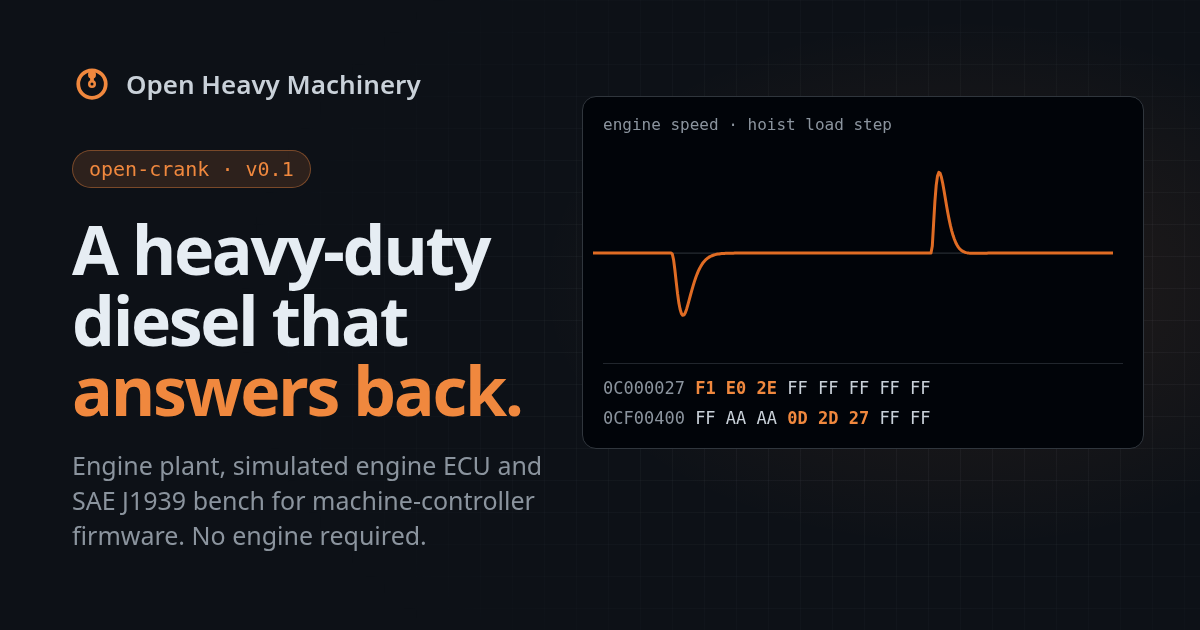
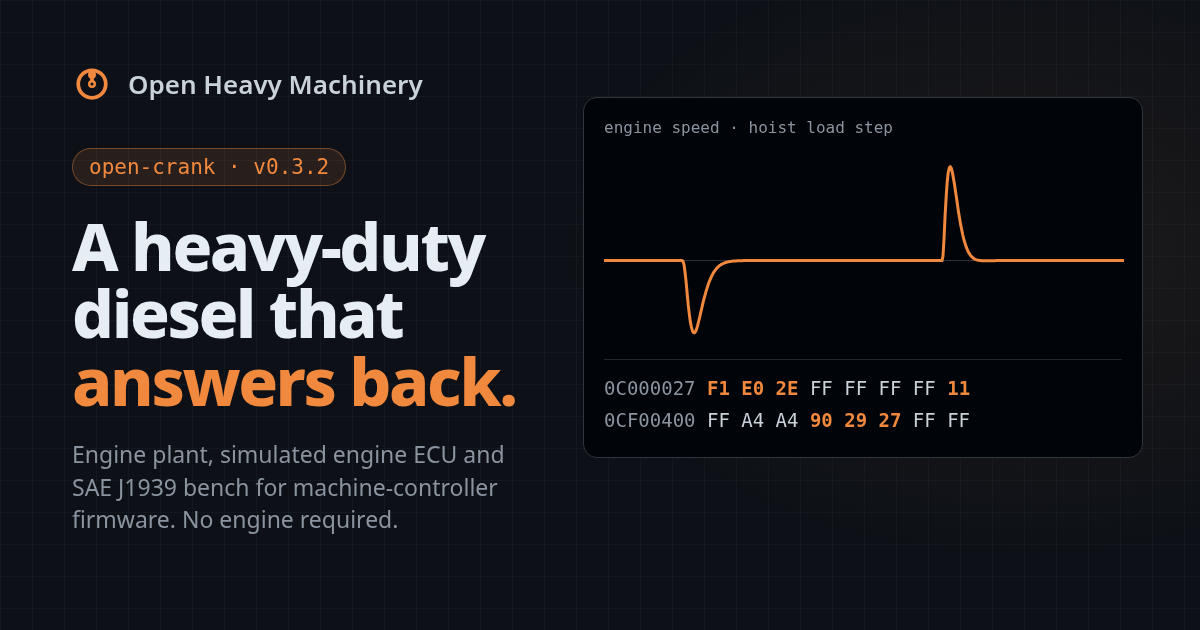
docs: social cards with today's versions, and open-crank v0.3.2
The three social cards come from templates now (open-crank's is new) and
show open-tick v0.3.1, open-crank v0.3.2 and open-rig v0.3, with real
data: open-tick's delay.frames.csv, and a hoist_step run at open-crank
bc8ea3b. The pages show open-crank v0.3.2 (frame logs and the bus
dictionary) and the cards' alt texts match the images.

Assisted by: Claude Opus 5.5

diff --git a/tools/og/open-crank.html b/tools/og/open-crank.html
@@ -1,0 +1,15 @@
+<!doctype html><html><head><meta charset="utf-8"><link rel="stylesheet" href="card.css"></head><body>
+<!-- Data: open-crank-run scenarios/hoist_step.csv at open-crank bc8ea3b (v0.3.2's code):
+     rpm from 5 s to 25 s (every 4th row, clipped to 1300..1750), and the TSC1 and EEC1 at t = 8.50 s. -->
+<div class="left">
+  <div class="brand"><svg width="40" height="40" viewBox="0 0 32 32"><circle cx="16" cy="16" r="11" fill="none" stroke="#f0883e" stroke-width="3"/><line x1="16" y1="16" x2="16" y2="8.5" stroke="#f0883e" stroke-width="3" stroke-linecap="round"/><circle cx="16" cy="8.5" r="3.2" fill="#f0883e"/><circle cx="16" cy="16" r="2.2" fill="#0d1117" stroke="#f0883e" stroke-width="2"/></svg> Open Heavy Machinery</div>
+  <div class="pill">open-crank · v0.3.2</div>
+  <h1>A heavy-duty diesel that <em>answers back.</em></h1>
+  <p class="sub">Engine plant, simulated engine ECU and SAE J1939 bench for machine-controller firmware. No engine required.</p>
+</div>
+<div class="panel">
+  <div class="bar">engine speed · hoist load step</div>
+  <svg class="chart" width="520" height="190" viewBox="0 0 520 190"><line class="base" x1="0" x2="520" y1="105.6" y2="105.6"/><polyline class="line" points="0.0,105.6 1.0,105.6 2.1,105.6 3.1,105.6 4.2,105.6 5.2,105.6 6.2,105.6 7.3,105.6 8.3,105.6 9.4,105.6 10.4,105.6 11.4,105.6 12.5,105.6 13.5,105.6 14.6,105.6 15.6,105.6 16.6,105.6 17.7,105.6 18.7,105.6 19.8,105.6 20.8,105.6 21.8,105.6 22.9,105.6 23.9,105.6 25.0,105.6 26.0,105.6 27.0,105.6 28.1,105.6 29.1,105.6 30.2,105.6 31.2,105.6 32.2,105.6 33.3,105.6 34.3,105.6 35.4,105.6 36.4,105.6 37.4,105.6 38.5,105.6 39.5,105.6 40.6,105.6 41.6,105.6 42.6,105.6 43.7,105.6 44.7,105.6 45.8,105.6 46.8,105.6 47.8,105.6 48.9,105.6 49.9,105.6 51.0,105.6 52.0,105.6 53.0,105.6 54.1,105.6 55.1,105.6 56.2,105.6 57.2,105.6 58.2,105.6 59.3,105.6 60.3,105.6 61.4,105.6 62.4,105.6 63.4,105.6 64.5,105.6 65.5,105.6 66.6,105.6 67.6,105.6 68.6,105.6 69.7,105.6 70.7,105.6 71.8,105.6 72.8,105.6 73.8,105.6 74.9,105.6 75.9,105.6 77.0,105.6 78.0,105.6 79.0,106.1 80.1,110.0 81.1,117.7 82.2,127.9 83.2,139.0 84.2,149.7 85.3,159.1 86.3,166.6 87.4,172.1 88.4,175.7 89.4,177.6 90.5,177.8 91.5,176.6 92.6,174.1 93.6,170.7 94.6,166.5 95.7,162.1 96.7,157.6 97.8,153.1 98.8,148.7 99.8,144.5 100.9,140.6 101.9,136.8 103.0,133.4 104.0,130.2 105.0,127.3 106.1,124.6 107.1,122.3 108.2,120.1 109.2,118.2 110.2,116.6 111.3,115.1 112.3,113.8 113.4,112.6 114.4,111.6 115.4,110.7 116.5,110.0 117.5,109.3 118.6,108.8 119.6,108.3 120.6,107.9 121.7,107.5 122.7,107.2 123.8,106.9 124.8,106.7 125.8,106.5 126.9,106.4 127.9,106.2 129.0,106.1 130.0,106.0 131.0,106.0 132.1,105.9 133.1,105.8 134.2,105.8 135.2,105.7 136.2,105.7 137.3,105.7 138.3,105.7 139.4,105.6 140.4,105.6 141.4,105.6 142.5,105.6 143.5,105.6 144.6,105.6 145.6,105.6 146.6,105.6 147.7,105.6 148.7,105.6 149.8,105.6 150.8,105.6 151.8,105.6 152.9,105.6 153.9,105.6 155.0,105.6 156.0,105.6 157.0,105.6 158.1,105.6 159.1,105.6 160.2,105.6 161.2,105.6 162.2,105.6 163.3,105.6 164.3,105.6 165.4,105.6 166.4,105.6 167.4,105.6 168.5,105.6 169.5,105.6 170.6,105.6 171.6,105.6 172.6,105.6 173.7,105.6 174.7,105.6 175.8,105.6 176.8,105.6 177.8,105.6 178.9,105.6 179.9,105.6 181.0,105.6 182.0,105.6 183.0,105.6 184.1,105.6 185.1,105.6 186.2,105.6 187.2,105.6 188.2,105.6 189.3,105.6 190.3,105.6 191.4,105.6 192.4,105.6 193.4,105.6 194.5,105.6 195.5,105.6 196.6,105.6 197.6,105.6 198.6,105.6 199.7,105.6 200.7,105.6 201.8,105.6 202.8,105.6 203.8,105.6 204.9,105.6 205.9,105.6 207.0,105.6 208.0,105.6 209.0,105.6 210.1,105.6 211.1,105.6 212.2,105.6 213.2,105.6 214.2,105.6 215.3,105.6 216.3,105.6 217.4,105.6 218.4,105.6 219.4,105.6 220.5,105.6 221.5,105.6 222.6,105.6 223.6,105.6 224.6,105.6 225.7,105.6 226.7,105.6 227.8,105.6 228.8,105.6 229.8,105.6 230.9,105.6 231.9,105.6 233.0,105.6 234.0,105.6 235.0,105.6 236.1,105.6 237.1,105.6 238.2,105.6 239.2,105.6 240.2,105.6 241.3,105.6 242.3,105.6 243.4,105.6 244.4,105.6 245.4,105.6 246.5,105.6 247.5,105.6 248.6,105.6 249.6,105.6 250.6,105.6 251.7,105.6 252.7,105.6 253.8,105.6 254.8,105.6 255.8,105.6 256.9,105.6 257.9,105.6 259.0,105.6 260.0,105.6 261.0,105.6 262.1,105.6 263.1,105.6 264.2,105.6 265.2,105.6 266.2,105.6 267.3,105.6 268.3,105.6 269.4,105.6 270.4,105.6 271.4,105.6 272.5,105.6 273.5,105.6 274.6,105.6 275.6,105.6 276.6,105.6 277.7,105.6 278.7,105.6 279.8,105.6 280.8,105.6 281.8,105.6 282.9,105.6 283.9,105.6 285.0,105.6 286.0,105.6 287.0,105.6 288.1,105.6 289.1,105.6 290.2,105.6 291.2,105.6 292.2,105.6 293.3,105.6 294.3,105.6 295.4,105.6 296.4,105.6 297.4,105.6 298.5,105.6 299.5,105.6 300.6,105.6 301.6,105.6 302.6,105.6 303.7,105.6 304.7,105.6 305.8,105.6 306.8,105.6 307.8,105.6 308.9,105.6 309.9,105.6 311.0,105.6 312.0,105.6 313.0,105.6 314.1,105.6 315.1,105.6 316.2,105.6 317.2,105.6 318.2,105.6 319.3,105.6 320.3,105.6 321.4,105.6 322.4,105.6 323.4,105.6 324.5,105.6 325.5,105.6 326.6,105.6 327.6,105.6 328.6,105.6 329.7,105.6 330.7,105.6 331.8,105.6 332.8,105.6 333.8,105.6 334.9,105.6 335.9,105.6 337.0,105.6 338.0,105.6 339.0,101.1 340.1,82.4 341.1,60.5 342.2,41.3 343.2,27.0 344.2,17.6 345.3,12.8 346.3,11.7 347.4,13.4 348.4,17.4 349.4,22.9 350.5,29.4 351.5,36.4 352.6,43.6 353.6,50.7 354.6,57.6 355.7,64.0 356.7,69.9 357.8,75.2 358.8,80.0 359.8,84.2 360.9,87.9 361.9,91.1 363.0,93.9 364.0,96.2 365.0,98.1 366.1,99.8 367.1,101.1 368.2,102.2 369.2,103.1 370.2,103.8 371.3,104.3 372.3,104.7 373.4,105.1 374.4,105.3 375.4,105.5 376.5,105.6 377.5,105.7 378.6,105.8 379.6,105.8 380.6,105.8 381.7,105.8 382.7,105.8 383.8,105.8 384.8,105.8 385.8,105.8 386.9,105.7 387.9,105.7 389.0,105.7 390.0,105.7 391.0,105.7 392.1,105.6 393.1,105.6 394.2,105.6 395.2,105.6 396.2,105.6 397.3,105.6 398.3,105.6 399.4,105.6 400.4,105.6 401.4,105.6 402.5,105.6 403.5,105.6 404.6,105.6 405.6,105.6 406.6,105.6 407.7,105.6 408.7,105.6 409.8,105.6 410.8,105.6 411.8,105.6 412.9,105.6 413.9,105.6 415.0,105.6 416.0,105.6 417.0,105.6 418.1,105.6 419.1,105.6 420.2,105.6 421.2,105.6 422.2,105.6 423.3,105.6 424.3,105.6 425.4,105.6 426.4,105.6 427.4,105.6 428.5,105.6 429.5,105.6 430.6,105.6 431.6,105.6 432.6,105.6 433.7,105.6 434.7,105.6 435.8,105.6 436.8,105.6 437.8,105.6 438.9,105.6 439.9,105.6 441.0,105.6 442.0,105.6 443.0,105.6 444.1,105.6 445.1,105.6 446.2,105.6 447.2,105.6 448.2,105.6 449.3,105.6 450.3,105.6 451.4,105.6 452.4,105.6 453.4,105.6 454.5,105.6 455.5,105.6 456.6,105.6 457.6,105.6 458.6,105.6 459.7,105.6 460.7,105.6 461.8,105.6 462.8,105.6 463.8,105.6 464.9,105.6 465.9,105.6 467.0,105.6 468.0,105.6 469.0,105.6 470.1,105.6 471.1,105.6 472.2,105.6 473.2,105.6 474.2,105.6 475.3,105.6 476.3,105.6 477.4,105.6 478.4,105.6 479.4,105.6 480.5,105.6 481.5,105.6 482.6,105.6 483.6,105.6 484.6,105.6 485.7,105.6 486.7,105.6 487.8,105.6 488.8,105.6 489.8,105.6 490.9,105.6 491.9,105.6 493.0,105.6 494.0,105.6 495.0,105.6 496.1,105.6 497.1,105.6 498.2,105.6 499.2,105.6 500.2,105.6 501.3,105.6 502.3,105.6 503.4,105.6 504.4,105.6 505.4,105.6 506.5,105.6 507.5,105.6 508.6,105.6 509.6,105.6 510.6,105.6 511.7,105.6 512.7,105.6 513.8,105.6 514.8,105.6 515.8,105.6 516.9,105.6 517.9,105.6 519.0,105.6 520.0,105.6"/></svg>
+  <div class="frames"><span class="id">0C000027</span> <b>F1 E0 2E</b> FF FF FF FF <b>11</b><br><span class="id">0CF00400</span> FF A4 A4 <b>90 29 27</b> FF FF</div>
+</div>
+</body></html>

diff --git a/index.html b/index.html
@@ -18,7 +18,7 @@
   <meta property="og:image" content="https://open-heavy-machinery.github.io/og-card.png">
   <meta property="og:image:width" content="1200">
   <meta property="og:image:height" content="630">
-  <meta property="og:image:alt" content="Open Heavy Machinery: open-tick and open-crank, machines that answer back">
+  <meta property="og:image:alt" content="Open Heavy Machinery: open-tick v0.3.1, open-crank v0.3.2 and open-rig v0.3, machines that answer back">
   <meta name="twitter:card" content="summary_large_image">
 
   <link rel="stylesheet" href="assets/site.css">
@@ -78,7 +78,7 @@
           <div class="term-bar" aria-hidden="true"><i></i><i></i><i></i><span>github.com/Open-Heavy-Machinery</span></div>
           <ul class="board">
             <li><a class="name" href="open-tick/">open-tick</a><span class="ver">v0.3.1</span><span class="state">● done</span><span class="what">One clock, scenarios as data, traces, CAN / CAN FD bridges with transport faults, frame logs, and an oracle that grades by frames and writes its verdicts. The core every project runs on.</span></li>
-            <li><a class="name" href="open-crank/">open-crank</a><span class="ver">v0.3.1</span><span class="state">● done</span><span class="what">A heavy-duty diesel that answers back over J1939: plant, engine ECU, hydraulic load, and the faults to test against. Runs on open-tick.</span></li>
+            <li><a class="name" href="open-crank/">open-crank</a><span class="ver">v0.3.2</span><span class="state">● done</span><span class="what">A heavy-duty diesel that answers back over J1939: plant, engine ECU, hydraulic load, and the faults to test against. Runs on open-tick.</span></li>
             <li><a class="name" href="https://github.com/Open-Heavy-Machinery/open-rig">open-rig</a><span class="ver">v0.3</span><span class="state">● done</span><span class="what">A static browser viewer for open-tick traces: one trace, or two on the same time axis, with the oracle's verdicts drawn over them and the bus beside them, every frame decoded with a DBC, J1939 included.</span></li>
             <li><span class="name">open-robots</span><span class="ver">—</span><span class="state planned">○ future, after open-crank</span><span class="what">DC motors, encoders and IMUs for robot firmware, on open-tick, with no J1939.</span></li>
           </ul>
@@ -131,7 +131,7 @@
             <div class="links"><a class="main" href="open-tick/">open-tick</a><a href="https://github.com/Open-Heavy-Machinery/open-tick">GitHub</a></div>
           </article>
           <article class="project">
-            <div class="top"><span class="pname">open-crank</span><span class="chip now">v0.3.1 done</span></div>
+            <div class="top"><span class="pname">open-crank</span><span class="chip now">v0.3.2 done</span></div>
             <h3>A heavy-duty diesel that answers back.</h3>
             <p>Connect your own firmware over J1939 and practise against an engine you could never keep at home.</p>
             <ul>
@@ -282,6 +282,7 @@
               <li class="done"><div class="tl-head"><span class="tl-ver">v0.2.1</span><span class="tl-title">Acceptance suite over the bus</span><span class="chip now">done</span></div><p>Any controller graded by the CAN frames it sends; deliberately broken controllers must fail it.</p></li>
               <li class="done"><div class="tl-head"><span class="tl-ver">v0.2.2</span><span class="tl-title">Board automation</span><span class="chip now">done</span></div><p>The board built, programmed and tested from the PC with one command, without CubeIDE: a standard bench check anyone can run.</p></li>
               <li class="done"><div class="tl-head"><span class="tl-ver">v0.3.1</span><span class="tl-title">Robustness on the board</span><span class="chip now">done</span></div><p>Transport faults, a corrupted TSC1 refused by its checksum, the engine's DM1 with limp-home, and a watchdog on the board. Thirteen safety requirements, each traced to its tests.</p></li>
+              <li class="done"><div class="tl-head"><span class="tl-ver">v0.3.2</span><span class="tl-title">Frame logs and the bus dictionary</span><span class="chip now">done</span></div><p>Every run writes its CAN frames with two times, and the bus contract is a DBC that CI checks against the encoders.</p></li>
               <li><div class="tl-head"><span class="tl-ver">v0.4</span><span class="tl-title">Level 2: your firmware as the engine ECU</span></div><p>Crank and cam signals from open-tick's Tang Nano 20K bridge; fuel from your injector pulses.</p></li>
               <li><div class="tl-head"><span class="tl-ver">v0.5–v0.7</span><span class="tl-title">Two engines, a marine two-stroke, power management</span></div><p>Address claiming, a propeller load and a generator-set bus with a blackout scenario.</p></li>
             </ol>

diff --git a/open-crank/index.html b/open-crank/index.html
@@ -18,7 +18,7 @@
   <meta property="og:image" content="https://open-heavy-machinery.github.io/open-crank/og-card.png">
   <meta property="og:image:width" content="1200">
   <meta property="og:image:height" content="630">
-  <meta property="og:image:alt" content="open-crank: engine speed recovering from a hydraulic load step, with J1939 frames">
+  <meta property="og:image:alt" content="open-crank v0.3.2: engine speed recovering from a hydraulic load step, with a TSC1 and an EEC1 frame">
   <meta name="twitter:card" content="summary_large_image">
 
   <link rel="stylesheet" href="../assets/site.css">
@@ -57,7 +57,7 @@
     <div class="hero" id="top">
       <div class="wrap">
         <div>
-          <div class="eyebrow"><span class="dot" aria-hidden="true"></span>open-crank · v0.3.1<span class="long"> · robustness on the board</span></div>
+          <div class="eyebrow"><span class="dot" aria-hidden="true"></span>open-crank · v0.3.2<span class="long"> · frame logs and the bus dictionary</span></div>
           <h1>A heavy-duty diesel that <em>answers back.</em></h1>
           <p class="lede">
             Connect your own firmware over <strong>J1939</strong> and practise against an engine you could never keep at home. <strong>open-crank</strong> simulates the engine, its ECU and its hydraulic load: develop, test and break your controller on a laptop, in CI and on a cheap STM32G431 board today. No engine required.
@@ -106,7 +106,7 @@
 
     <section id="today" aria-labelledby="today-h">
       <div class="wrap">
-        <div class="kicker">// what runs today · v0.3.1</div>
+        <div class="kicker">// what runs today · v0.3.2</div>
         <h2 id="today-h">A complete control loop, on the bus, in CI.</h2>
         <p class="intro">A Level 1 machine: a controller asks a simulated engine for speed over J1939 while a hydraulic hoist loads it, and tests prove what happens, also when the bus, the engine or the controller itself fails. Since version 0.1 the controller runs on a real board (0.2), an acceptance suite grades any controller by its frames (0.2.1), the board is tested with one command (0.2.2), and faults are injected and their reactions traced to safety requirements (0.3.1). Every claim below points at the code that backs it.</p>
         <div class="grid">
@@ -416,6 +416,15 @@
               <li class="done">a watchdog on the board: after it fires, the controller waits for the operator's fault reset</li>
               <li class="done">every injected fault has a test of the reaction, and every requirement is traced to a test, in CI</li>
               <li class="done">released as <a href="https://github.com/Open-Heavy-Machinery/open-crank/releases/tag/v0.3.1">v0.3.1</a>, with the bench run attached</li>
+            </ul>
+          </li>
+          <li class="done">
+            <div class="tl-head"><span class="tl-ver">v0.3.2</span><span class="tl-title">Frame logs and the bus dictionary</span><span class="chip now">done</span></div>
+            <p>Every run can write its CAN frames, each with the step that places it on the trace and the time it was on the bus. The bus contract is a DBC. Controller and firmware are unchanged since v0.3.1.</p>
+            <ul class="pending">
+              <li class="done"><code>--frames</code> in every runner, from <a href="../open-tick/">open-tick</a> v0.3.1's frame logs; open-rig shows them beside the trace</li>
+              <li class="done"><a href="https://github.com/Open-Heavy-Machinery/open-crank/blob/main/open-crank.dbc">open-crank.dbc</a>, checked against the encoders and their periods with cantools in CI</li>
+              <li class="done">released as <a href="https://github.com/Open-Heavy-Machinery/open-crank/releases/tag/v0.3.2">v0.3.2</a></li>
             </ul>
           </li>
           <li>

diff --git a/tools/og/open-tick.html b/tools/og/open-tick.html
@@ -1,12 +1,12 @@
 <!doctype html><html><head><meta charset="utf-8"><link rel="stylesheet" href="card.css"></head><body>
 <div class="left">
   <div class="brand"><svg width="40" height="40" viewBox="0 0 32 32"><circle cx="16" cy="16" r="11" fill="none" stroke="#f0883e" stroke-width="3"/><line x1="16" y1="16" x2="16" y2="8.5" stroke="#f0883e" stroke-width="3" stroke-linecap="round"/><circle cx="16" cy="8.5" r="3.2" fill="#f0883e"/><circle cx="16" cy="16" r="2.2" fill="#0d1117" stroke="#f0883e" stroke-width="2"/></svg> Open Heavy Machinery</div>
-  <div class="pill">open-tick · v0.1</div>
+  <div class="pill">open-tick · v0.3.1</div>
   <h1 class="long">The beat a simulated machine <em>keeps.</em></h1>
   <p class="sub">One clock, scenarios, traces and CAN bridges, to test real firmware against any simulated machine.</p>
 </div>
 <div class="panel">
-  <div class="bar">open-crank#1 · CI · traces job</div>
-  <div class="out"><span class="ok">identical</span>  cold_start<br><span class="ok">identical</span>  engine_status_loss<br><span class="ok">identical</span>  hoist_step<br><span class="ok">identical</span>  override_ignored<br><span class="ok">identical</span>  overspeed<br><span class="ok">identical</span>  speed_command_loss<br><br><span class="sum">6 compared, 0 different</span></div>
+  <div class="bar">examples/flywheel/delay.frames.csv · bus_clock=sim</div>
+  <div class="out">t_s    t_bus_s dir      id  data<br>3.300  3.300   to_dut   101 DC05<br>3.300  3.300   from_dut 200 00<br>3.300  <span class="sum">3.600</span>   to_dut   100 C502<br><br><span class="ok">every frame, two times:</span><br>SPEED reached the DUT 300 ms late</div>
 </div>
 </body></html>

diff --git a/tools/og/card.css b/tools/og/card.css
@@ -23,7 +23,7 @@ h1 em { font-style: normal; color: #f0883e; }
 .sub { font-size: 23px; line-height: 1.42; color: #8b949e; }
 .panel { position: absolute; left: 583px; top: 97px; width: 560px; background: #010409; border: 1px solid #30363d; border-radius: 14px; padding: 20px 20px; font-family: "DejaVu Sans Mono", ui-monospace, monospace; }
 .panel .bar { font-size: 16px; color: #8b949e; margin-bottom: 18px; }
-.row { display: grid; grid-template-columns: 170px 70px 1fr; align-items: baseline; padding: 14px 0; border-top: 1px solid #21262d; font-size: 19px; }
+.row { display: grid; grid-template-columns: 160px 90px 1fr; align-items: baseline; padding: 14px 0; border-top: 1px solid #21262d; font-size: 19px; }
 .row .n { color: #e6edf3; font-weight: 700; }
 .row .v { color: #8b949e; }
 .row .s { color: #3fb950; }
@@ -32,3 +32,10 @@ h1 em { font-style: normal; color: #f0883e; }
 .out { font-size: 19px; line-height: 1.62; color: #c9d1d9; }
 .out .ok { color: #3fb950; }
 .out .sum { color: #f0883e; }
+.out { white-space: pre; }
+.chart { display: block; margin: 0 0 14px; }
+.chart .base { stroke: #30363d; stroke-width: 1; }
+.chart .line { fill: none; stroke: #f0883e; stroke-width: 3; stroke-linejoin: round; }
+.frames { font-size: 19px; line-height: 1.7; color: #c9d1d9; border-top: 1px solid #21262d; padding-top: 12px; }
+.frames .id { color: #8b949e; }
+.frames b { color: #f0883e; font-weight: 700; }

diff --git a/tools/og/home.html b/tools/og/home.html
@@ -7,8 +7,9 @@
 </div>
 <div class="panel">
   <div class="bar">github.com/Open-Heavy-Machinery</div>
-  <div class="row"><span class="n">open-tick</span><span class="v">v0.1</span><span class="s">● done</span><span class="d">one clock, scenarios, traces, CAN bridges</span></div>
-  <div class="row"><span class="n">open-crank</span><span class="v">v0.1</span><span class="s">● done</span><span class="d">a heavy-duty diesel that answers back over J1939</span></div>
+  <div class="row"><span class="n">open-tick</span><span class="v">v0.3.1</span><span class="s">● done</span><span class="d">one clock, scenarios, traces, CAN bridges, frame logs</span></div>
+  <div class="row"><span class="n">open-crank</span><span class="v">v0.3.2</span><span class="s">● done</span><span class="d">a heavy-duty diesel that answers back over J1939</span></div>
+  <div class="row"><span class="n">open-rig</span><span class="v">v0.3</span><span class="s">● done</span><span class="d">a browser viewer for traces, verdicts and the bus</span></div>
   <div class="row"><span class="n">open-robots</span><span class="v">—</span><span class="s p">○ planned</span><span class="d">motors, encoders and IMUs for robot firmware</span></div>
 </div>
 </body></html>

diff --git a/open-tick/index.html b/open-tick/index.html
@@ -18,7 +18,7 @@
   <meta property="og:image" content="https://open-heavy-machinery.github.io/open-tick/og-card.png">
   <meta property="og:image:width" content="1200">
   <meta property="og:image:height" content="630">
-  <meta property="og:image:alt" content="open-tick: six scenarios, six byte-identical traces">
+  <meta property="og:image:alt" content="open-tick v0.3.1: a frame log, every frame with two times; a SPEED frame 300 ms late">
   <meta name="twitter:card" content="summary_large_image">
 
   <link rel="stylesheet" href="../assets/site.css">

diff --git a/README.md b/README.md
@@ -22,7 +22,7 @@ Open `index.html` in a browser. Every link between pages is relative, so the sit
 
 ## Social cards
 
-`tools/og/render.sh` renders `og-card.png` and `open-tick/og-card.png` from the HTML templates in `tools/og/`, with headless Chrome. `open-crank/og-card.png` predates the templates and is kept as it is.
+`tools/og/render.sh` renders the three cards from the HTML templates in `tools/og/`, with headless Chrome. The data in each card is real: open-tick's `examples/flywheel/delay.frames.csv`, and for open-crank a run of `open-crank-run scenarios/hoist_step.csv` (the template says which commit). Re-render them when a version on the site changes.
 
 ## Logo files
 
